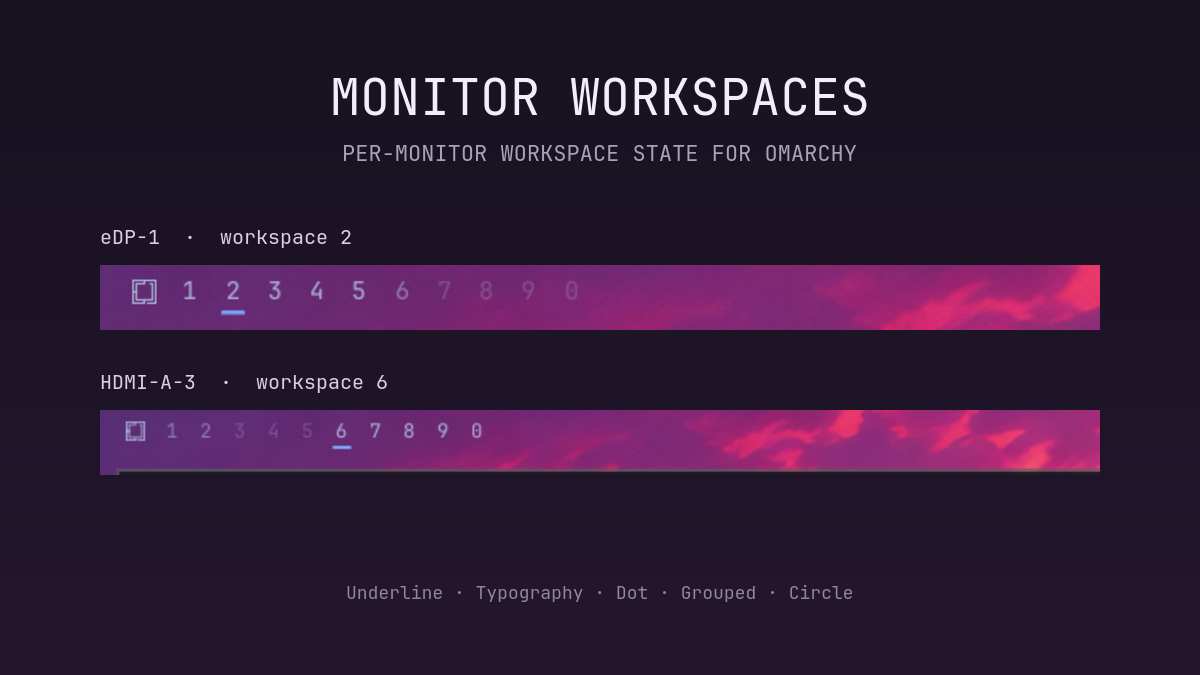
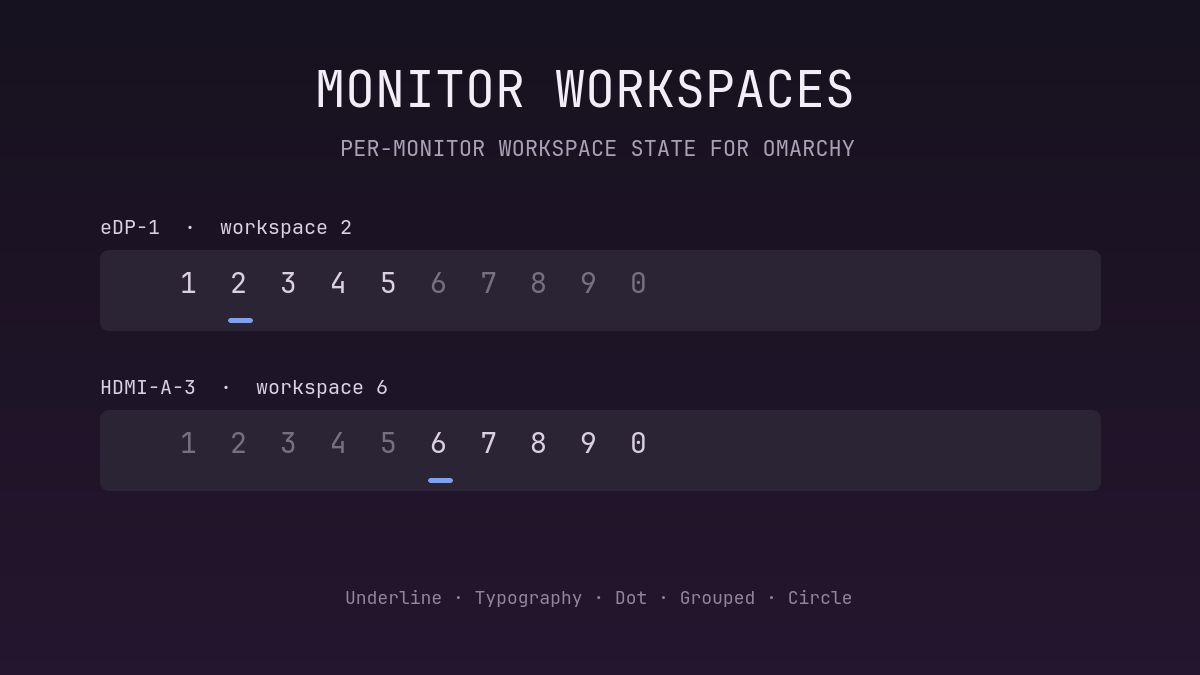
Use original marketplace preview

diff --git a/README.md b/README.md
@@ -4,7 +4,7 @@ A monitor-aware replacement for Omarchy's workspace bar widget. Each bar
 marks the workspace displayed on its own monitor instead of mirroring the
 globally focused workspace across every display.
 
-![Monitor Workspaces on two displays](screenshots/monitor-workspaces.png)
+![Monitor Workspaces on two displays](preview.png)
 
 ## Features
 
